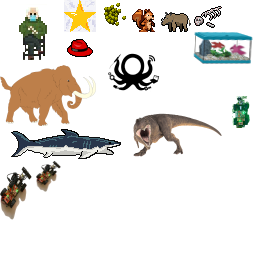
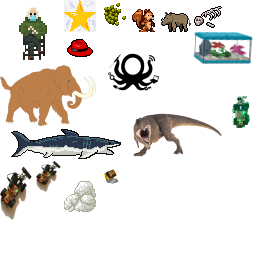
Gewinner 2022 aktualisiert

Changed region(s): [[0.25, 0.6875, 0.375, 0.8438], [0.4062, 0.6562, 0.4688, 0.7188]]

diff --git a/_tafeln/Topas.md b/_tafeln/Topas.md
@@ -1,0 +1,19 @@
+---
+title: "Mineral des Jahres 2022: Der Topas"
+layout: archive
+classes: wide
+
+---
+
+[![](/img/thumbs/Topas_thumb.jpg)](/img/Topas.jpg)
+*<br>Topaskristall aus einer Fundstätte in Pakistan*
+
+{% include gallery class="full" layout="" caption="Für eine größere Darstellung klicke bitte auf das Bild." %}
+
+Der Topas ist auch unter dem Namen "Sächsischer Diamant" bekannt. Eventuell verdankt er diesen Namen seiner Bruchfläche bei Spaltung: sowohl Diamant als auch Topas brechen mit vollkommen glatten Flächen. Eine andere Theorie findest du weiter unten im Text.
+
+Der Topas ist ein Inselsilikat, der Kristalle mit glasähnlichem Glanz ausbildet. In seiner Reinform ist er farblos. Durch Einlagerung anderer Minerale, kann der Topas auch gelb, hellrot, hellblau, violett oder hellgrün erscheinen, seine Transparenz bleibt immer sichtbar. Er kann in sehr großen Kristallen auftreten. Diese können eine Länge von bis zu einem Meter und ein Gewicht von bis zu 2,5 Tonnen erreichen (Fund in Mosambik). Deutlich häufiger als dieses sehr große Exemplar sind Kristalle bis zu 100 Kilogramm.
+
+Topas kommt mit anderen Mineralien in Vulkaniten vor. In Brasilien werden besonders große Steine gefunden. Auch in Algerien, Indien, Japan, Mexiko, Myanmar, Nordeuropa, Pakistan, der Schweiz, Tschechien und den USA werden Topaskristalle gefunden. In Deutschland gibt es ein historisch wichtiges Gewinnungsgebiet in Schneckenstein im Vogtland. Hier wurden die Topassteine des Schmucks Augusts des Starken gewonnen, die heute im [Grünen Gewölbe in Dresden](https://gruenes-gewoelbe.skd.museum/ausstellungen/){:target="_blank"} zu sehen sind. Auch daher kann der Beiname "Sächsischer Diamant" stammen. Auch in einer englischen Königskrone finden sich Topaskristalle aus dem Vogtland.
+
+Verwendung findet der Topas besonders als Schmuckstein. Da er häufig zu finden ist, wird er heute selten in hochwertigem Schmuck eingesetzt. Eine Ausnahme bildet der hellblaue Topas, der in der Natur selten zu finden ist. Diese Seltenheit verschafft ihm den Namen "Königstopas".

diff --git a/_tafeln/Gips.md b/_tafeln/Gips.md
@@ -1,0 +1,18 @@
+---
+title: "Gestein des Jahres 2022: Der Gips"
+layout: archive
+classes: wide
+
+---
+
+[![](/img/thumbs/Gips.thumb.jpg)](/img/Gips.jpg)
+*<br>Wenn Gips Sandkörner umschließt, entstehen sogenannte Sandrosen.*
+{% include gallery class="full" layout="" caption="Für eine größere Darstellung klicke bitte auf das Bild." %}
+
+Streng genommen ist Gips kein Gestein, sondern ein Mineral. Er ist farblos oder weiß, kann durch Aufnahme anderer Mineralien aber auch farbig sein. Gips entsteht bei der Austrocknung tropischer Flachmeere, als Verwitterungsprodukt in vulkanischen Schloten (beim Kontakt von Schwefel und Kalkstein) sowie beim Prozess der Entschwefelung in Kohlekraftwerken. Gipsgestein gehört zu den Sulfat- als Schwefelgesteinen.
+
+Menschen nutzen Gips seit Jahrtausenden zu Hausbau. Erste Nachweise finden sich in Anatolien und sind rund 7.000 Jahre alt. Auch die Pyramiden von Gizeh/Ägypten und die berühmte Sphinx sind vor rund 4.500 Jahren unter Verwendung von Gips gebaut worden. Oft wurde Gips dabei als Putz oder Fugenmittel verwendet. Auch Stuck wird aus Gips hergestellt. Stuck findest du in Leipzig in vielen Altbauten an der Decke (heute ist er oft aus Styropor).
+
+Inzwischen verwenden wir Gips auch in der Pharmaindustrie (Medikamente), als Düngemittel, in der Farb-, Papier- und Kunststoffindustrie und in Kosmetika. Er ist ein wichtiger Rohstoff für den Menschen.
+
+Gips ist weltweit verbreitet. Bis heute sind rund 6.600 Fundorte bekannt. In Deutschland tritt er besonders in Eisleben/Sachsen-Anhalt, Osterode am Harz, im Neckar-Odenwald-Kreis, bei Kassel, im Segeberger Kalkberg, im Steigerwald, der Frankenhöhe und der Schwäbischen Alb auf. 82 Gipsabbaustellen gewinnen in Deutschland Gips für die Weiterverwendung durch den Menschen.
